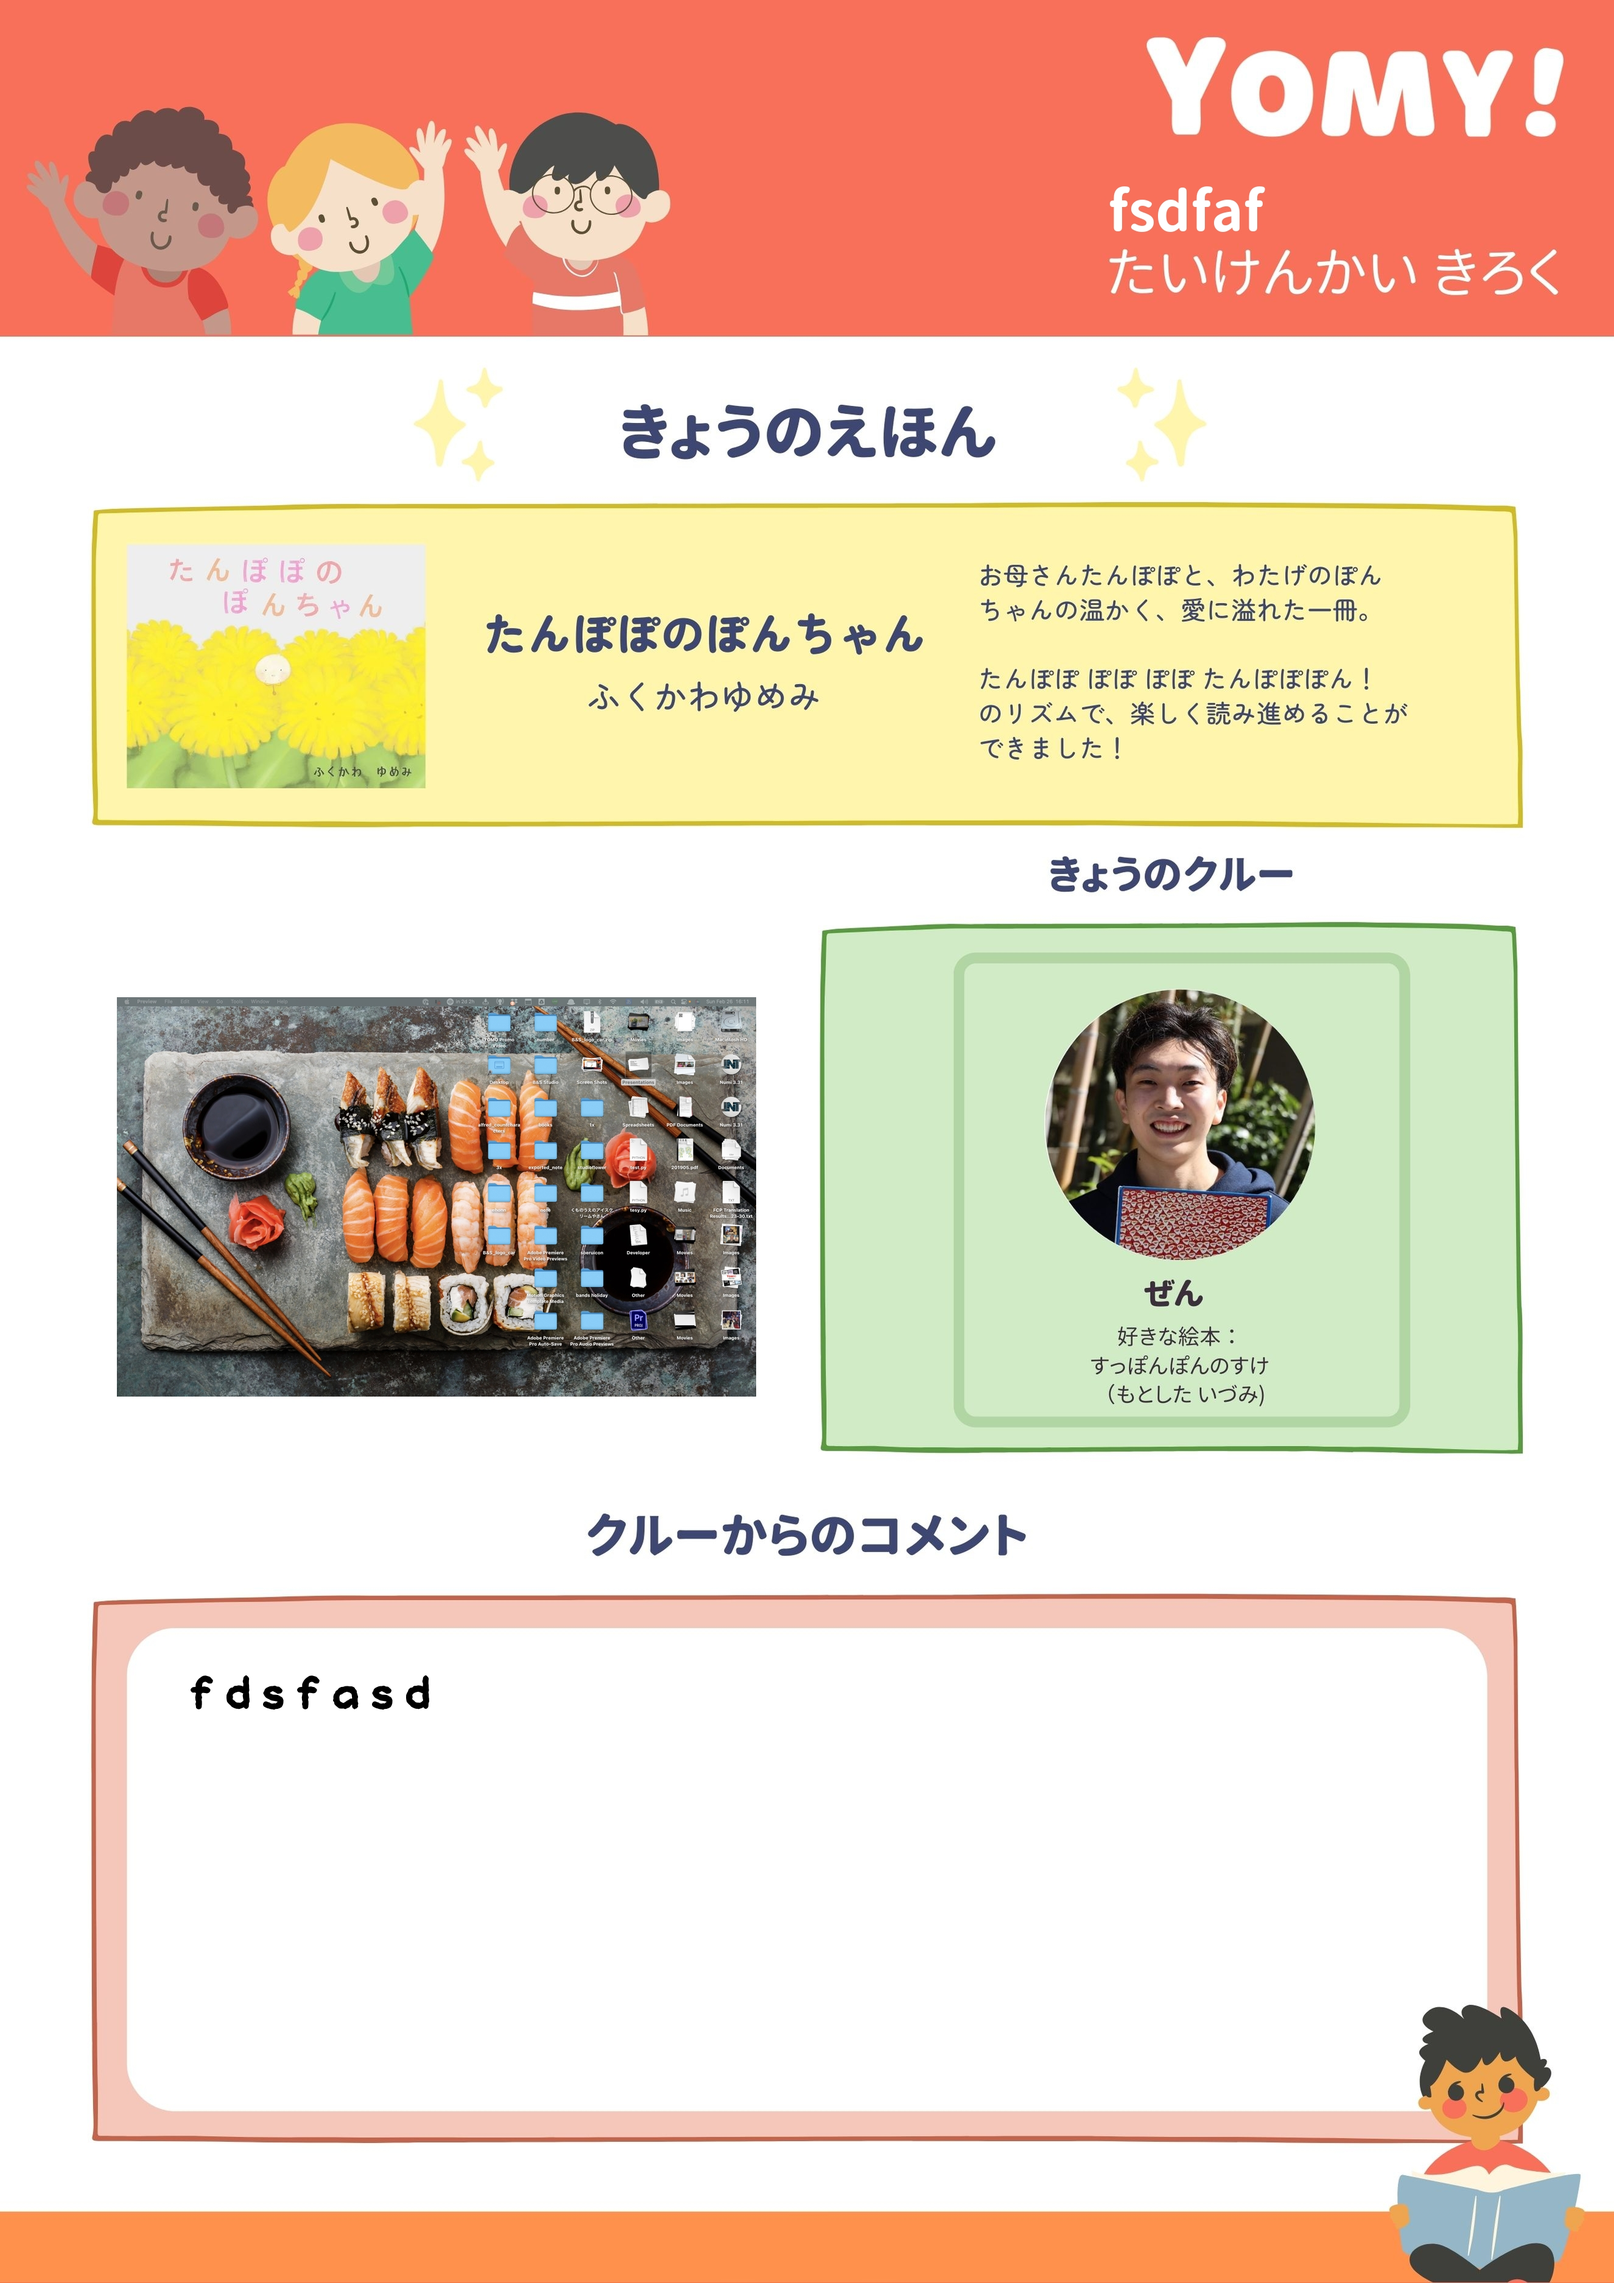
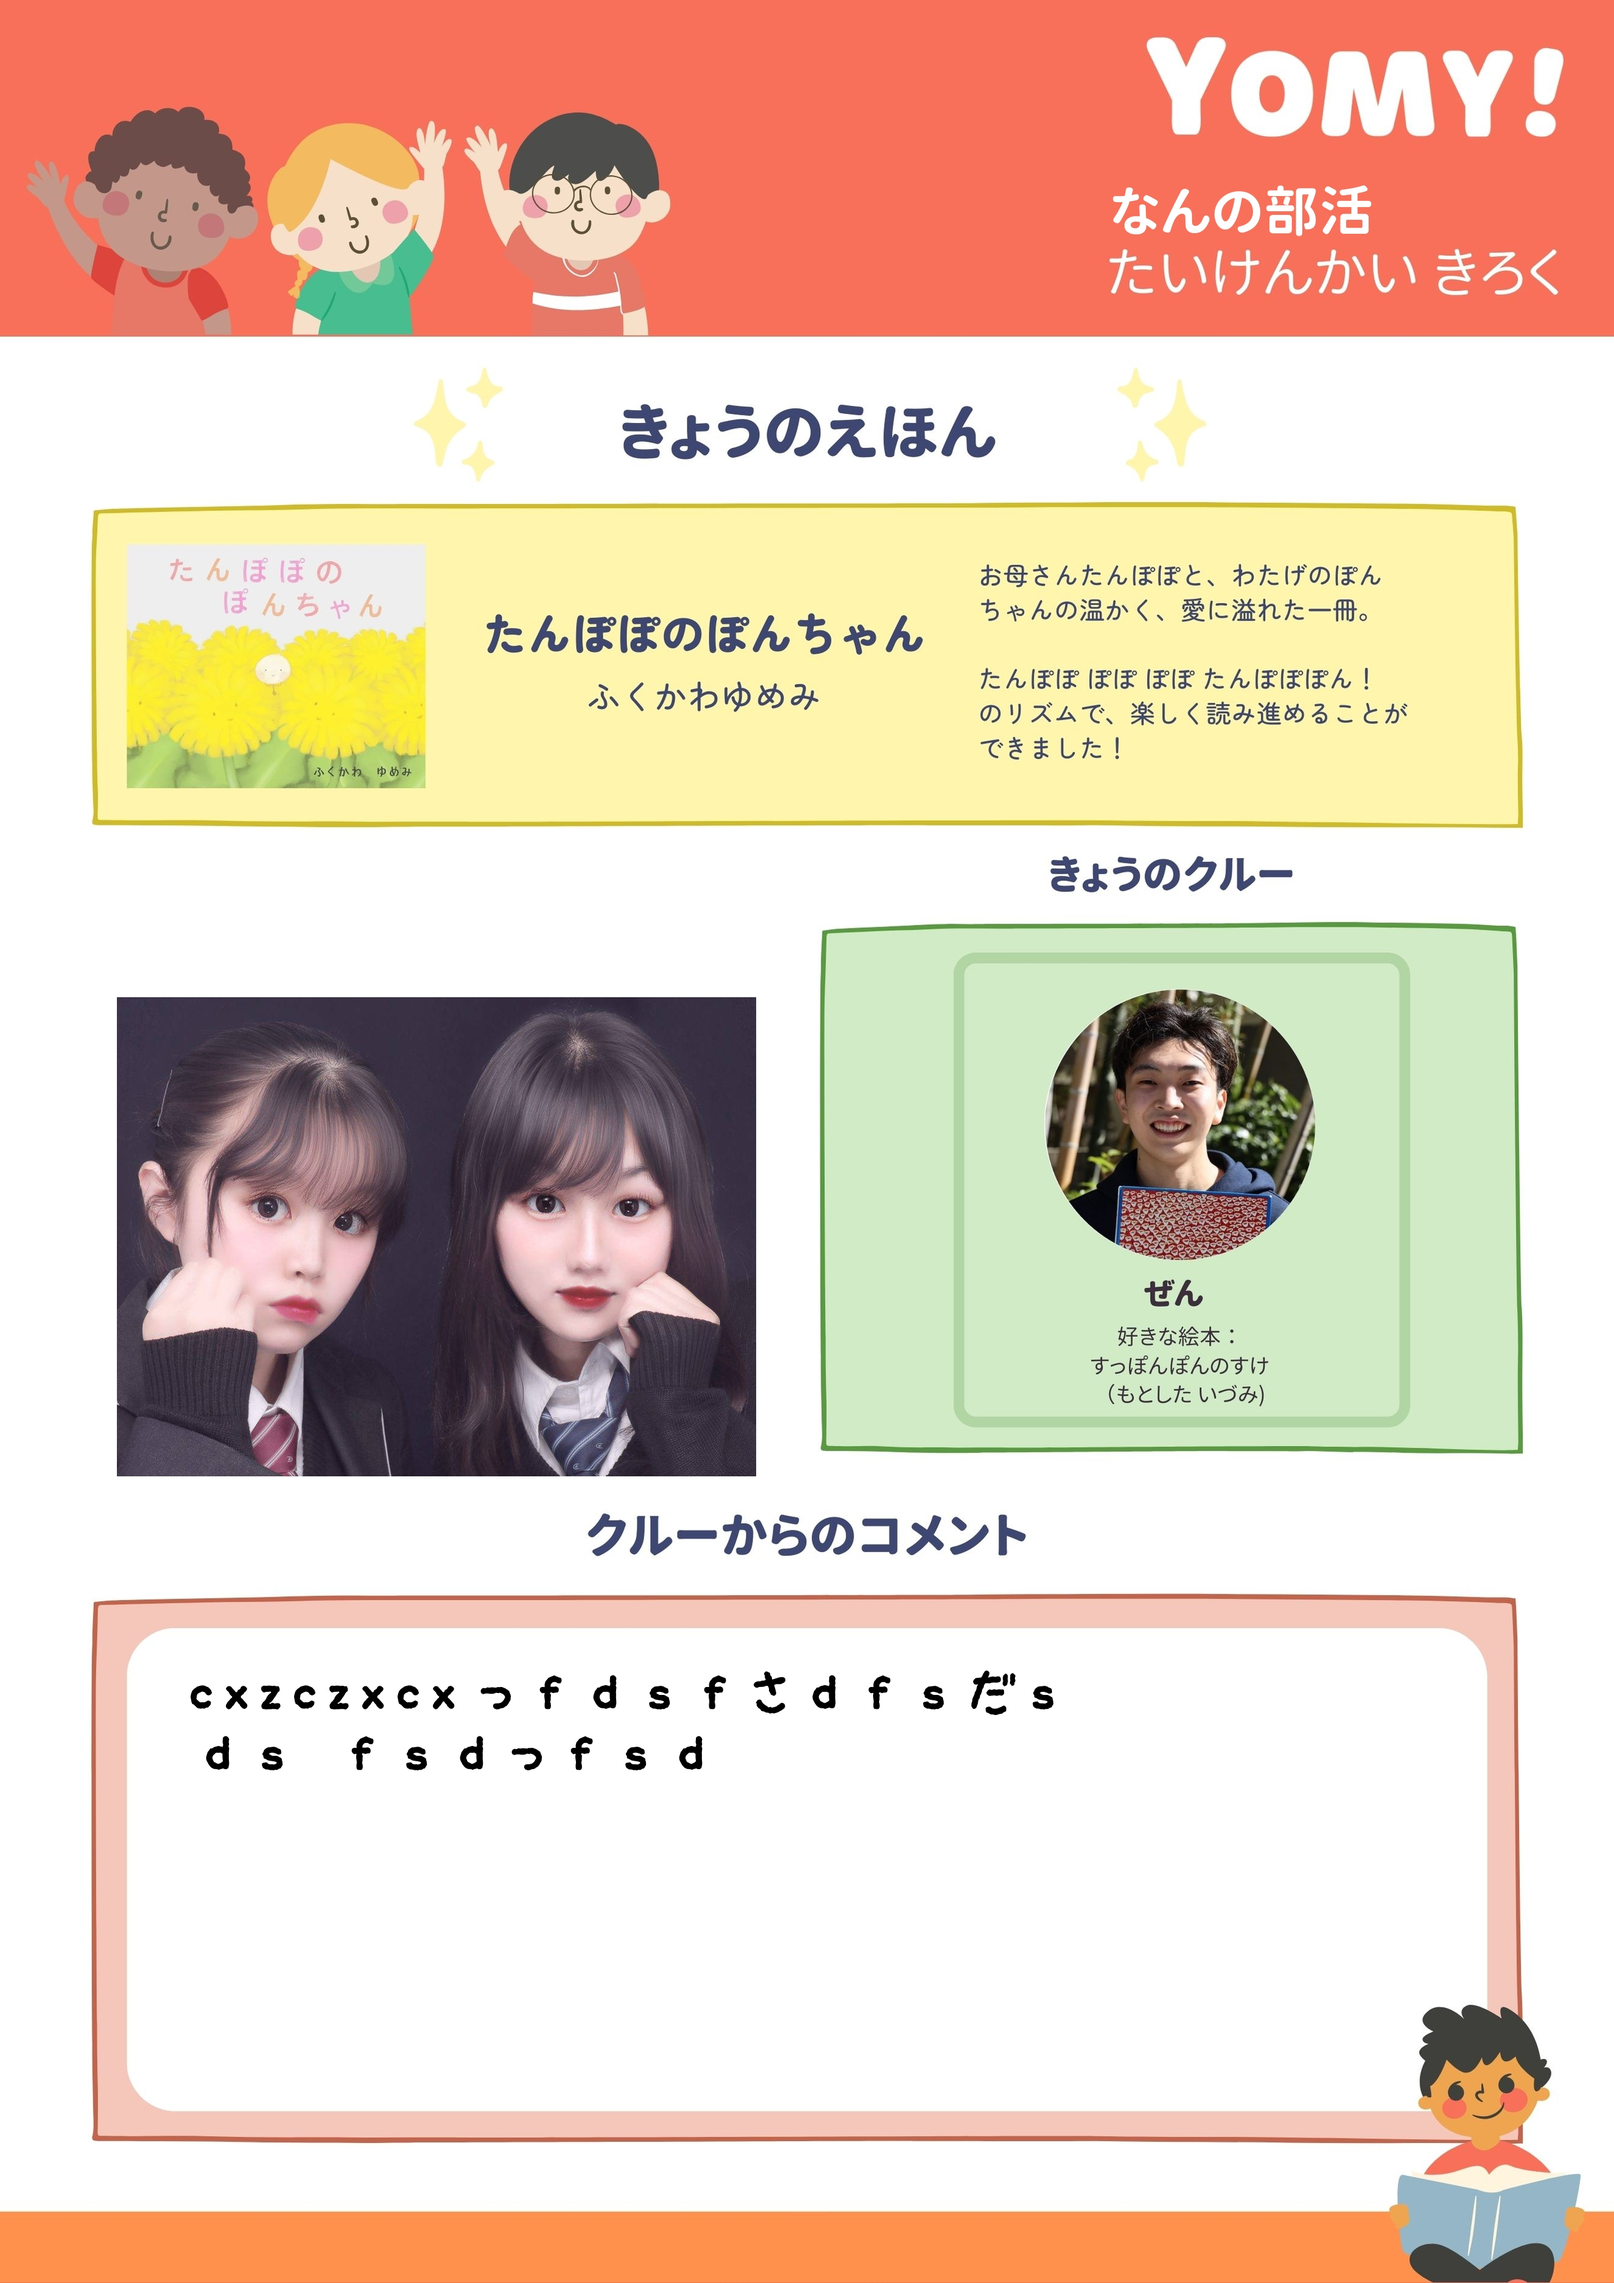
textbox to text area

diff --git a/script.py b/script.py
@@ -6,7 +6,6 @@ import textwrap
 st.set_page_config(page_title="体験会コメントシートメーカー")
 st.title("体験会コメントシートメーカー")
 
-
 book = st.selectbox(
     'どの絵本ですか？',
     ('たんぽぽのぽんちゃん', 'ぼくエスカレーター'))
@@ -18,7 +17,7 @@ crew = st.selectbox(
 
 upload_image = st.file_uploader("画像をアップロードしてください", type=["jpg", "jpeg", "png"])
 name = st.text_input("こどものなまえ(〇〇ちゃん/くん)")
-comment = st.text_input("コメント(難しい漢字は表示されないよ！)")
+comment = st.text_area("コメント(難しい漢字は表示されないよ！)")
 
 if upload_image is not None:
 
